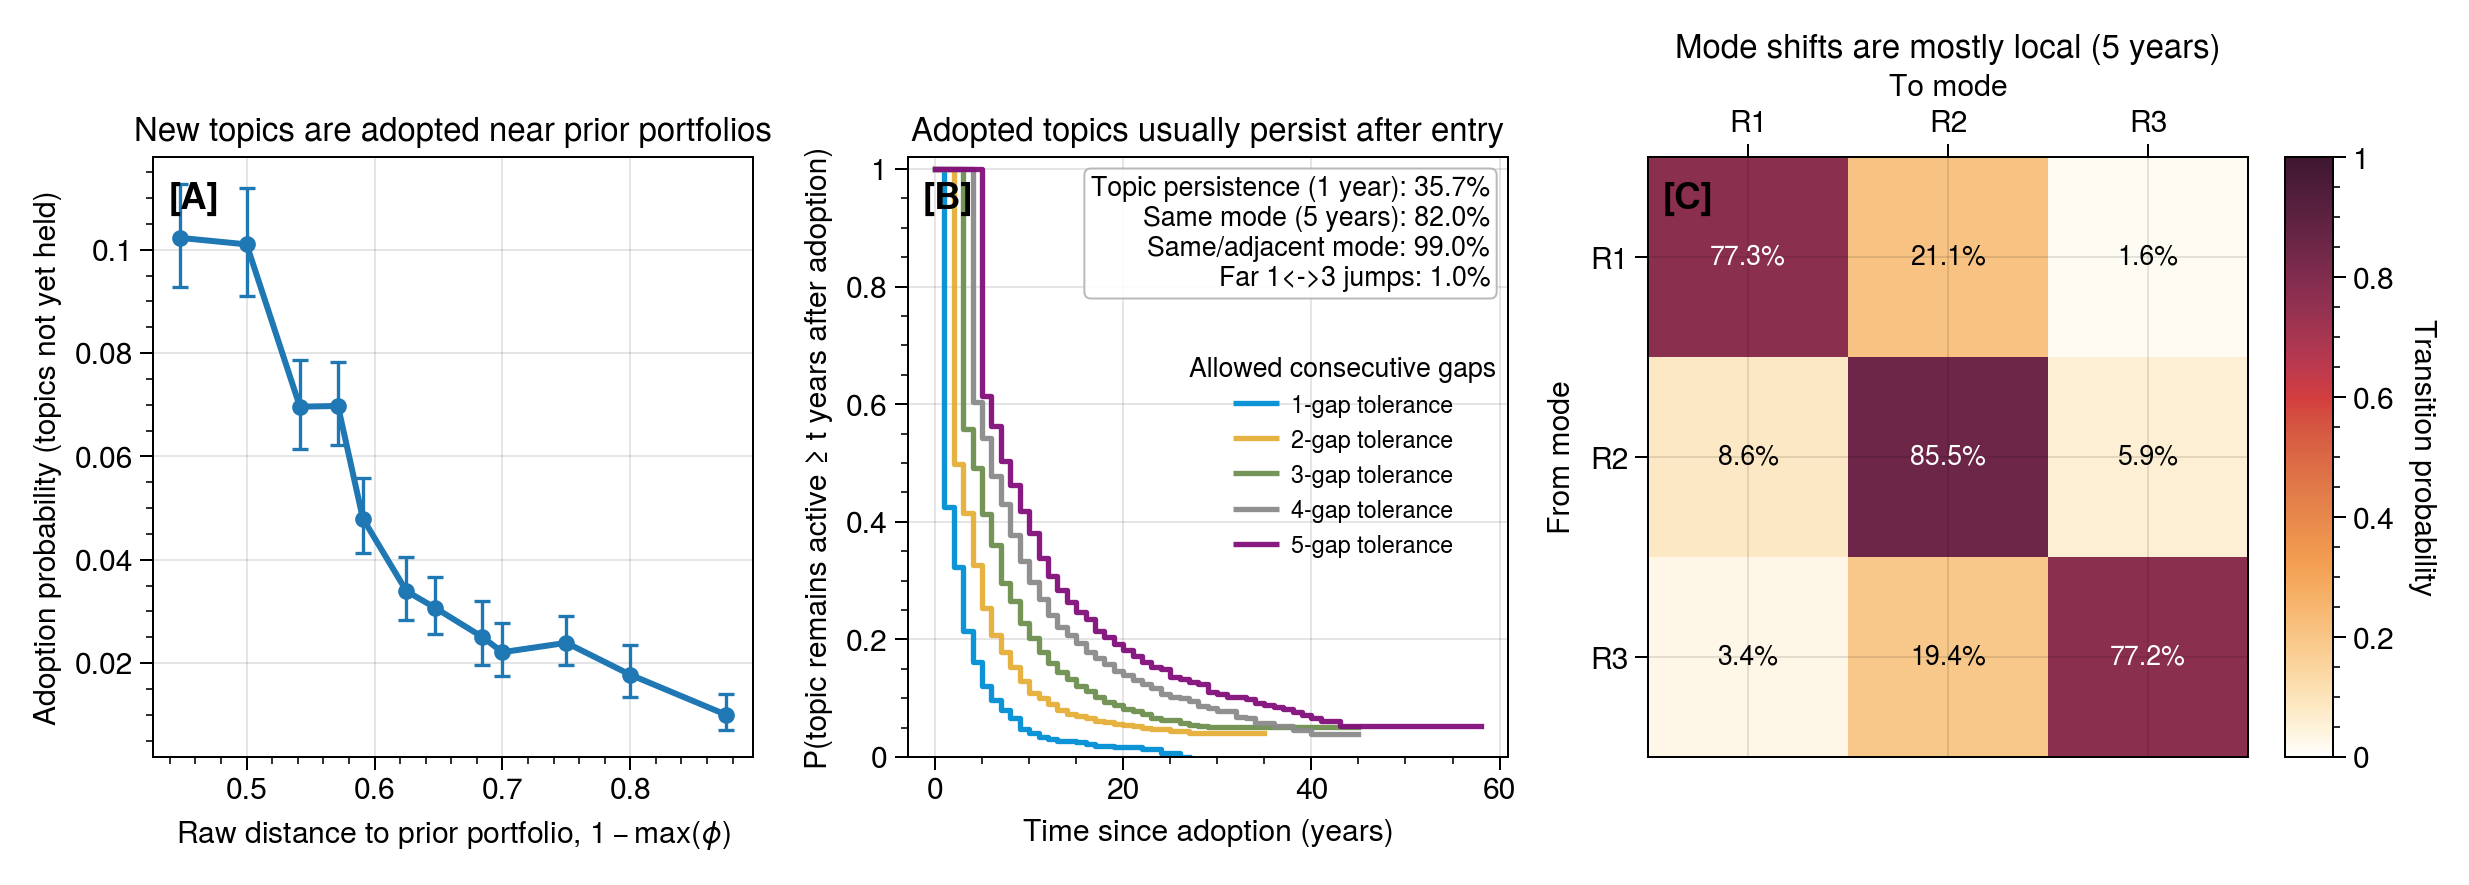
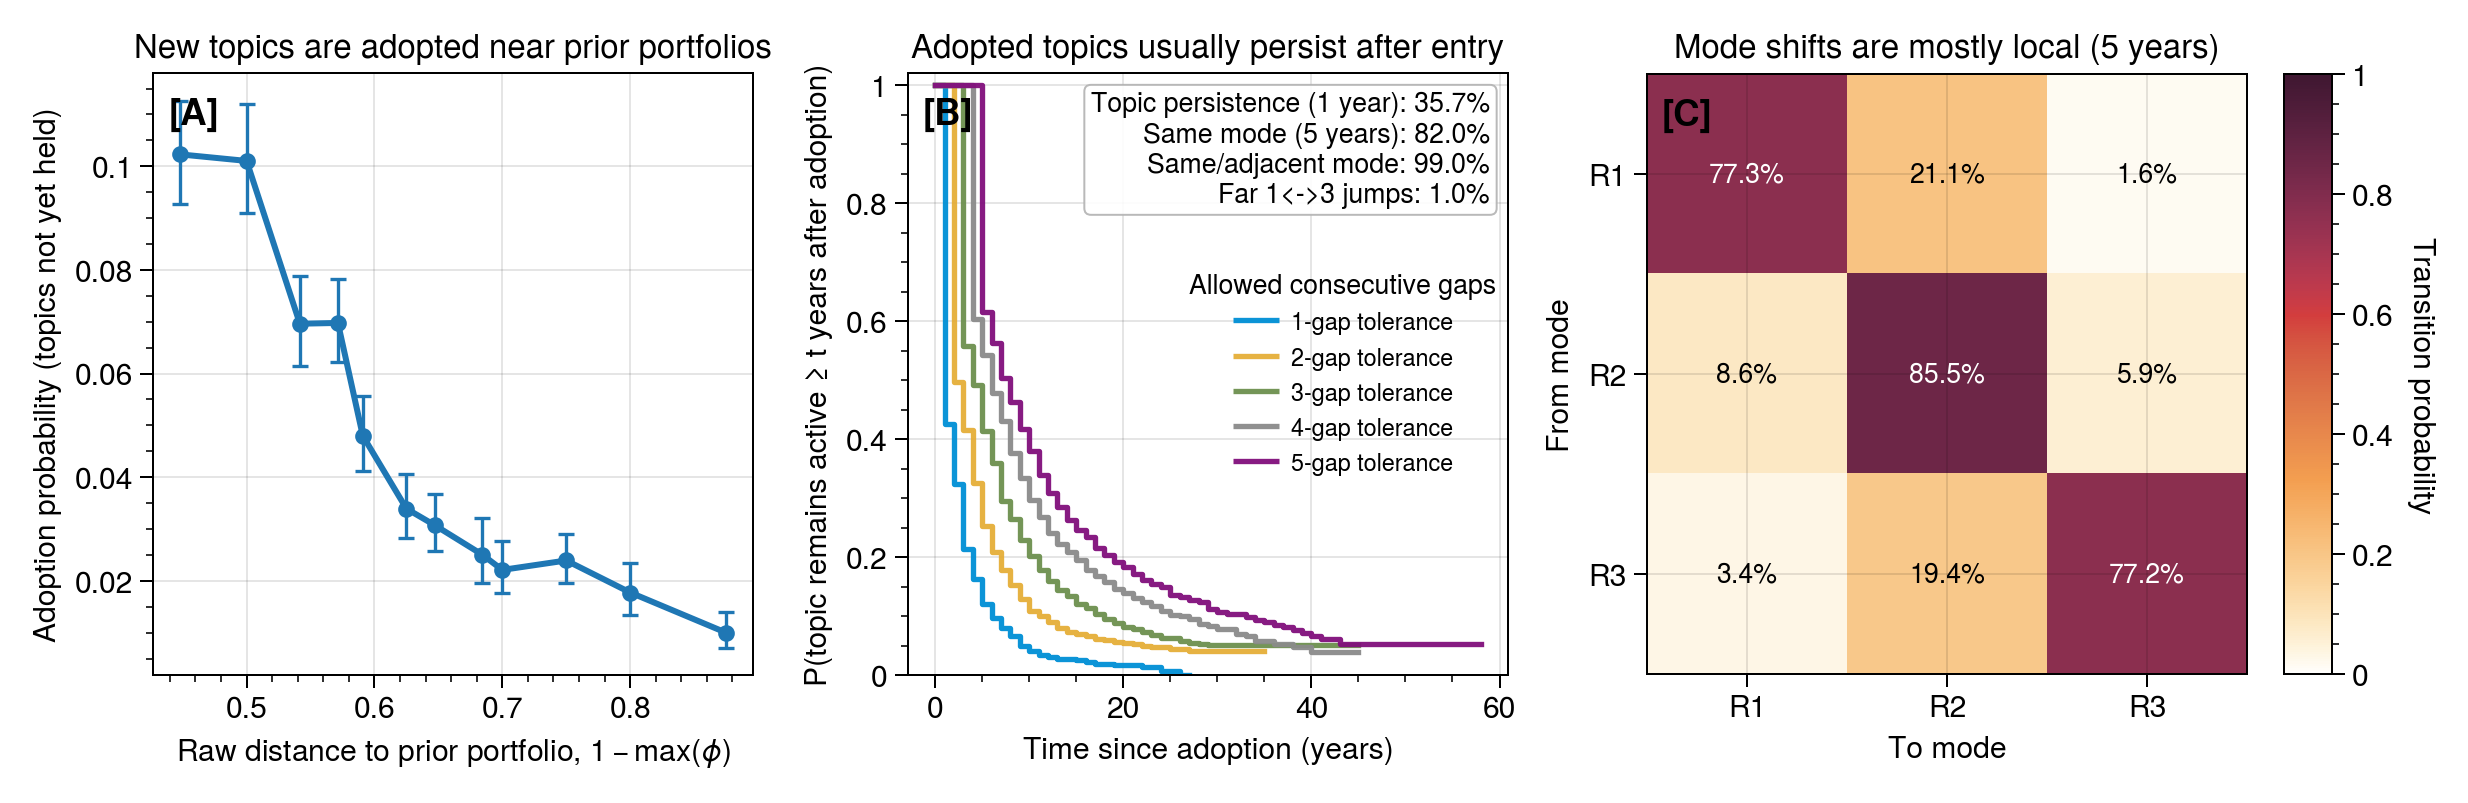
Restore background antarctica

diff --git a/fig01_space_of_concerns_topology.py b/fig01_space_of_concerns_topology.py
@@ -40,13 +40,22 @@ REFRESH_SIDE_LAYOUT = False
 SIDE_LAYOUT_CACHE_VERSION = 9
 SIDE_LAYOUT_CACHE_PATH = Path("assets/cache/fig01_side_layout_cache.json")
 USE_SAVED_NODE_LAYOUT = False
-SAVE_MAIN_SVG = False
+SAVE_MAIN_SVG = True
 GENERATE_REVEAL_SEQUENCE = False
 DEBUG_PROGRESS = True
 REVEAL_OUTPUT_DIR = Path("./output/fig01_reveals")
 SAVE_MAIN_PNG = True
 SAVE_MAIN_PDF = True
 MAIN_PNG_DPI = 1200
+
+# Poster-friendly variant: same layout, but all text is enlarged so it reads
+# from a distance, while crispness is preserved via a vector PDF plus a
+# high-DPI PNG. Exported in addition to the manuscript figure.
+SAVE_POSTER = True
+POSTER_TEXT_SCALE = 1.3  # multiply every text size
+POSTER_LINE_SCALE = 1.4  # thicken connector arrows to balance the larger text
+POSTER_FIG_SCALE = 1.4  # enlarge the canvas so dense side columns gain headroom
+POSTER_PNG_DPI = 600  # high enough to stay crisp at large print sizes
 
 
 def debug_print(message):
@@ -805,6 +814,7 @@ else:
     pos = saved_pos
 
 fp = Path("1024px-AntarcticaContour.svg.png")
+# fp = Path("taklsdfj;asdf.png")
 if fp.exists():
     _t0 = time.perf_counter()
     debug_print("Loading Antarctica mask and tessellation...")
@@ -3033,6 +3043,93 @@ if SAVE_MAIN_SVG:
         pad_inches=0.05,
     )
 debug_print(f"Saved main figure assets in {time.perf_counter() - _t0:.2f}s")
+
+
+if SAVE_POSTER:
+    from matplotlib.patches import FancyArrowPatch as _PosterArrow
+    from matplotlib.text import Text as _PosterText
+
+    debug_print(
+        f"Saving poster variant (canvas x{POSTER_FIG_SCALE}, text x{POSTER_TEXT_SCALE}, "
+        f"lines x{POSTER_LINE_SCALE})..."
+    )
+    _t0 = time.perf_counter()
+
+    # Enlarge the physical canvas first. Side labels live in data coordinates,
+    # so a bigger canvas stretches the gaps between them; enlarging text by a
+    # slightly smaller factor then keeps the dense columns collision-free while
+    # still printing larger, more legible labels.
+    _poster_figsize = fig.get_size_inches().copy()
+    fig.set_size_inches(_poster_figsize * float(POSTER_FIG_SCALE))
+
+    # Scale every text artist up so labels read at a distance. bbox_inches=
+    # "tight" reflows the canvas around the enlarged text so nothing clips.
+    _poster_text_state = []
+    for _txt in fig.findobj(match=_PosterText):
+        _fs = _txt.get_fontsize()
+        if _fs is None:
+            continue
+        _poster_text_state.append((_txt, _fs))
+        _txt.set_fontsize(float(_fs) * float(POSTER_TEXT_SCALE))
+
+    # Thicken connector arrows/arrowheads so they stay proportionate to the
+    # larger labels.
+    _poster_arrow_state = []
+    for _art in fig.findobj(match=_PosterArrow):
+        _lw = _art.get_linewidth()
+        _ms = _art.get_mutation_scale()
+        _poster_arrow_state.append((_art, _lw, _ms))
+        if _lw is not None:
+            _art.set_linewidth(float(_lw) * float(POSTER_LINE_SCALE))
+        if _ms is not None:
+            _art.set_mutation_scale(float(_ms) * float(POSTER_LINE_SCALE))
+
+    # Keep node markers prominent relative to the enlarged canvas (marker area
+    # is in points**2, so scale by the square of the canvas factor).
+    _poster_size_state = []
+    for _coll in ax.collections:
+        if not hasattr(_coll, "get_sizes"):
+            continue
+        _sizes = _coll.get_sizes()
+        if _sizes is None or len(_sizes) == 0:
+            continue
+        _poster_size_state.append((_coll, _sizes.copy()))
+        _coll.set_sizes(_sizes * float(POSTER_FIG_SCALE) ** 2)
+
+    # Drop the Themes legend on the poster (colors are self-evident at this
+    # size and it frees vertical room).
+    _poster_legend_visible = None
+    if legend_obj is not None:
+        _poster_legend_visible = legend_obj.get_visible()
+        legend_obj.set_visible(False)
+
+    fig.savefig(
+        "./figures/fig01_space_of_concerns_topology_poster.pdf",
+        bbox_inches="tight",
+        pad_inches=0.08,
+    )
+    fig.savefig(
+        "./figures/fig01_space_of_concerns_topology_poster.png",
+        dpi=POSTER_PNG_DPI,
+        bbox_inches="tight",
+        pad_inches=0.08,
+        transparent=True,
+    )
+
+    # Restore original styling so any later exports (e.g. reveal frames) match
+    # the manuscript figure.
+    fig.set_size_inches(_poster_figsize)
+    for _txt, _fs in _poster_text_state:
+        _txt.set_fontsize(_fs)
+    for _art, _lw, _ms in _poster_arrow_state:
+        _art.set_linewidth(_lw)
+        _art.set_mutation_scale(_ms)
+    for _coll, _sizes in _poster_size_state:
+        _coll.set_sizes(_sizes)
+    if legend_obj is not None and _poster_legend_visible is not None:
+        legend_obj.set_visible(_poster_legend_visible)
+
+    debug_print(f"Saved poster variant in {time.perf_counter() - _t0:.2f}s")
 
 
 def _slugify_label(text):

diff --git a/fig03_local_portfolio_movement.py b/fig03_local_portfolio_movement.py
@@ -558,11 +558,17 @@ def _plot_transition_matrix_panel(
     if show_title:
         format_kwargs["title"] = f"Mode shifts are mostly local ({matrix_label})"
     ax.format(**format_kwargs)
-    ax.xaxis.tick_top()
-    ax.tick_params(axis="x", top=True, labeltop=True, bottom=False, labelbottom=False)
     if xlabel_on_top:
+        ax.xaxis.tick_top()
+        ax.tick_params(
+            axis="x", top=True, labeltop=True, bottom=False, labelbottom=False
+        )
         ax.xaxis.set_label_position("top")
     else:
+        ax.xaxis.tick_bottom()
+        ax.tick_params(
+            axis="x", top=False, labeltop=False, bottom=True, labelbottom=True
+        )
         ax.xaxis.set_label_position("bottom")
     cbar = ax.colorbar(img)
     cbar.set_label("Transition probability")
@@ -639,6 +645,7 @@ def main():
         window_size=regime_window_size,
         time_unit=regime_time_unit,
         regime_matrix_source=regime_matrix_source,
+        xlabel_on_top=False,
     )
 
     # Panel letters drawn manually: ultraplot's abc shifts a long centered title

diff --git a/fig04_split_support_validation.py b/fig04_split_support_validation.py
@@ -352,11 +352,17 @@ def _draw_network_state(
             lw = 0.8
         if node in added_nodes:
             face = accent  # only newly adopted topics carry the model color
-            edge = "#111111"
+            # edge = "#111111"
+            edge = accent
             lw = 1.5
         ax.add_patch(
             Circle(
-                (x, y), radius=radius, facecolor=face, edgecolor=edge, lw=lw, zorder=3
+                (x, y),
+                radius=radius,
+                facecolor=face,
+                edgecolor=edge,
+                lw=lw,
+                zorder=3,
             )
         )
 

diff --git a/fig02_regime_engagement_panels.py b/fig02_regime_engagement_panels.py
@@ -23,7 +23,7 @@ OUT_A_ALL_SLIDE = SLIDES_DIR / "fig02_regime_allmembers_ridgelines_slide_clean.p
 OUT_B = Path("output/fig02_centroid_separation.png")
 OUT_C = Path("slides/fig02_regime_share_fractions.png")
 OUT_JOINT = Path("output/fig02_regime_engagement_panels.png")
-OUT_JOINT_ALL = Path("figures/fig02_regime_engagement_panels_allmembers.png")
+OUT_JOINT_ALL = Path("figures/fig02_regime_engagement_panels_allmembers.pdf")
 OUT_SUBSET = Path("output/fig02_regime_exemplar_actors.csv")
 
 RIDGE_HEIGHT = 0.78
@@ -1493,7 +1493,7 @@ for _, row in region_df.sort_values("region_id").iterrows():
     # FIXED: Placed at 96% height inside the axis, hanging downwards
     ax_la.text(
         0.5 * (left + right),
-        0.96,
+        0.99,
         f"Mode {rid}",
         transform=ax_la.get_xaxis_transform(),
         ha="center",
@@ -1586,5 +1586,5 @@ axs_all.format(
 )
 
 # --- Save Figure ---
-fig_ja.savefig(OUT_JOINT_ALL, dpi=230, bbox_inches="tight", pad_inches=0.16)
+fig_ja.savefig(OUT_JOINT_ALL, dpi=600, bbox_inches="tight", pad_inches=0.16)
 print(f"Wrote {OUT_JOINT_ALL}")